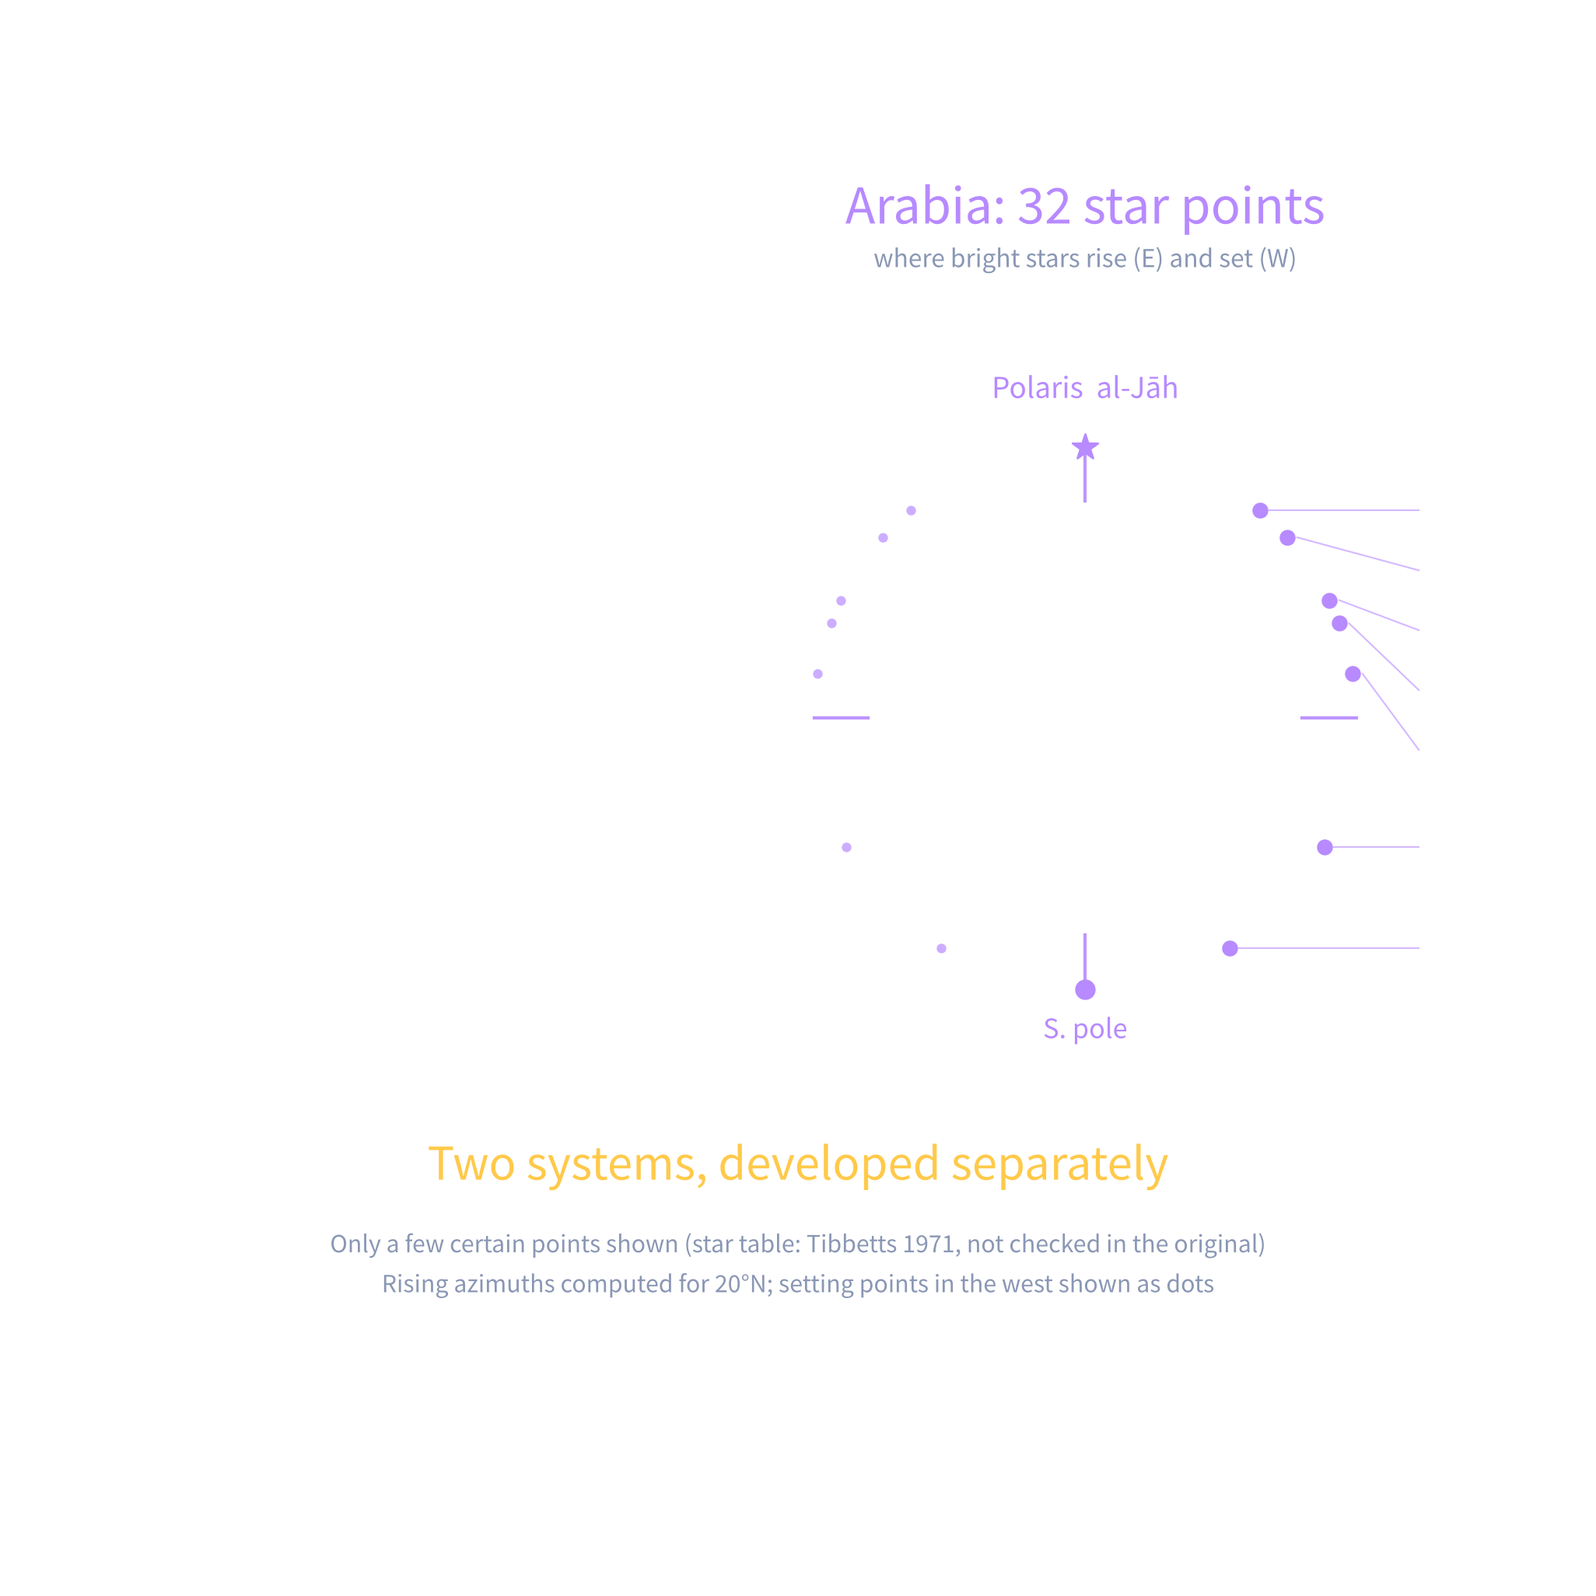
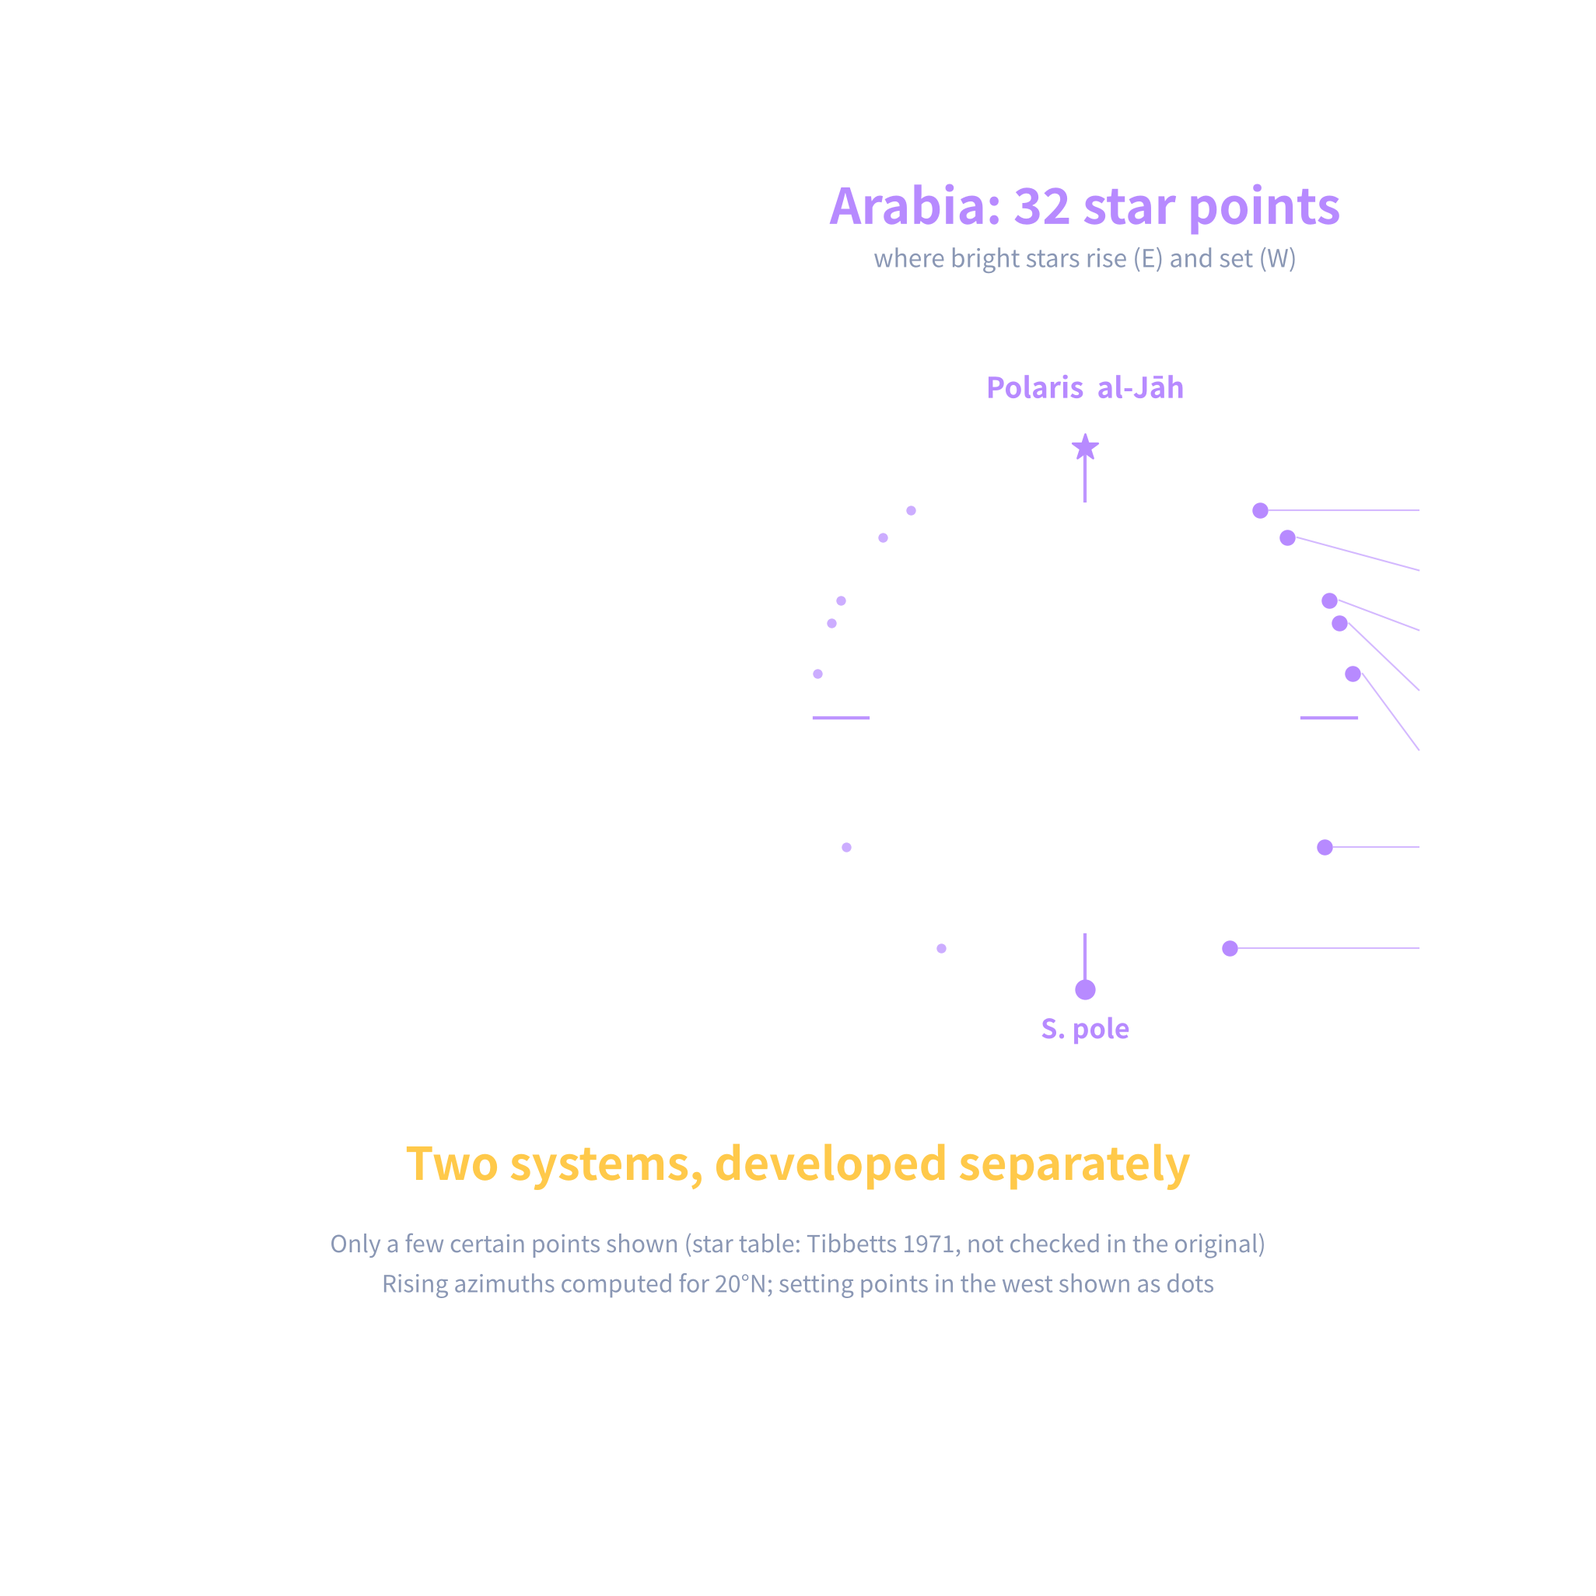
EN30（A-32 阿拉伯月站）英文稿 v0：每頁文字表＋SRT、英文概念圖（C-A32-04 標題縮短）；字型載入補 Noto CJK 粗體（英文圖標題才是粗體）；英文節目表 EN29／EN30 英文稿改 v0、填英文鉤子；譯名表新增 10 詞；進度板重算
Claude-Session: https://claude.ai/code/session_019bt7VgQe2Hwk1Wn3y6GyMN

diff --git a/02_製作流程SOP/make_x06_diagrams.py b/02_製作流程SOP/make_x06_diagrams.py
@@ -75,7 +75,7 @@ TXT = {
     "en": {
         "c01_title": "Before the compass came aboard", "c01_sub": "timeline not to scale",
         "now": "today",
-        "sahul_t": "50,000 years ago", "sahul1": "Crossing to Sahul", "sahul2": "(Australia + New Guinea)",
+        "sahul_t": "50,000 yrs ago", "sahul1": "Crossing to Sahul", "sahul2": "(Australia + New Guinea)",
         "sahul3": "Most islands on the way", "sahul4": "could see the next one", "sahul_q": "Stars used? No evidence",
         "ody_t": "c. 2,700 years ago", "ody1": "The Odyssey", "ody2": "keep the Bear on your left",
         "pz_t": "AD 1119", "pz1": "Pingzhou Ketan", "q1": "By night, the stars;", "q2": "by day, the sun;",

diff --git a/02_製作流程SOP/make_a32_diagrams.py b/02_製作流程SOP/make_a32_diagrams.py
@@ -92,7 +92,7 @@ TXT = {
         "c03_r1": "Crescent hilāl: what day it is", "c03_r2": "after sunset, low in the west,",
         "c03_r3": "the first thin crescent starts the month",
         "c03_w": "W", "c03_sun": "just after sunset",
-        "c04_title": "Lunar stations on today's star maps",
+        "c04_title": "Lunar stations on star maps",
         "c04_sub": "18 of the 28 stations still name stars on the IAU's official list",
         "c04_h": ["#", "Station (meaning)", "IAU star name"],
         "c04_foot1": "* name later moved to a nearby star: Subra, Iklil, Albaldah, Alrescha",

diff --git a/02_製作流程SOP/c_series_base.py b/02_製作流程SOP/c_series_base.py
@@ -29,6 +29,9 @@ def font():
               "/usr/share/fonts/truetype/dejavu/DejaVuSans.ttf"]:
         if os.path.exists(f):
             fontManager.addfont(f); fams.append(FontProperties(fname=f).get_name())
+    bold = "/usr/share/fonts/opentype/noto/NotoSansCJK-Bold.ttc"   # 同一字族的粗體；沒載入時 weight="bold" 會退回 Regular
+    if os.path.exists(bold):
+        fontManager.addfont(bold)
     fams.append("DejaVu Sans")
     return FontProperties(family=fams)
 FP = font()

diff --git a/04_腳本庫/_英文版/EN30-A-32-LunarStations-v0.md b/04_腳本庫/_英文版/EN30-A-32-LunarStations-v0.md
@@ -1,0 +1,119 @@
+# EN30 ｜ Arabic Lunar Stations: Where the Moon Stays Each Night ・ v0 (awaiting Gemini review)
+
+| Item | Content |
+|---|---|
+| Source | Chinese A-32 v1 (`A-32-阿拉伯月站月亮每晚的下榻處-逐字稿-v1.md`, fact-checked + external review 11/13). Nothing here is new; see "Cuts and changes" for what was dropped. |
+| Publish | **2027-06-02 (Wed) 21:00 Taiwan time**: EN30 in `06_發布月曆/節目表_萬國星空_英文版.csv` (Chinese A-32 airs 5/28) |
+| Length | **89 s** (including the 3 s follow page), 14 beats, ~178 words on screen (no voice-over; text over light music) |
+| Story | One story only: **the Moon’s 28 inns and their names.** The Moon moves about 13° a night; each night’s stop is a manzil. The signs read like desert life — a great scorpion, a flock of ostriches, an empty place where the Moon sleeps outdoors — and more than half still name stars today (Aldebaran, Shaula, Zubenelgenubi); the Heart is a heart in China too. Close: on Sunday 6 June the first thin crescent opens the Islamic New Year on Saudi Arabia’s calendar |
+| Canva | Copy of the Chinese A-32 design, named `EN30 A-32 阿拉伯月站` (card 07). Page numbers below are the Chinese design’s numbers (= Chinese 製作表 page + 1; page 1 = cover, 51 = last 製作表 page, 52 = next-episode card, 53 = follow page). If the Chinese design ends differently, put E13 and E14 on its next-episode and follow pages. Card C-A32-04: English version in `05_素材/A-32_阿拉伯月站/_概念圖/en/` (same file name). |
+| Opening line | *One sky. The Arabs saw — inns where the Moon stays each night.* (= the Chinese 統一開頭) |
+| Reading speed | ≤ 2.5 words/sec on every page (max 2.33, E06/E09/E10; = words in Text ÷ seconds that text is on screen, headline not counted; cover excluded as in EN01) |
+
+## Beats (text on screen)
+
+`Pos`: **cover** = cover text block; **top** = full-width box at the top (EN-A); **bottom** = lower-third box (EN-B); **bottom-left** = narrow box (X 110, W 520–600) on the left; **endcard** = replace the existing end-card text. Positions were chosen from `A-32_逐頁標籤座標.csv` (that file’s 頁 = Canva page − 1).
+
+| # | Sec | On pages | Pos | Headline (≤ 6 words) | Text | w/s |
+|---|---|---|---|---|---|---|
+| E01 | 3 | 1 | cover | World Sky Cultures | One sky. The Arabs saw — inns where the Moon stays each night. | — |
+| E02 | 8 | 2, 3 | bottom-left | 28 inns for the Moon | Each night, the Moon shifts about 13° east. In 27 or 28 nights, it circles the sky. | 2.1 |
+| E03 | 5 | 4 | bottom-left | | In Arabic, each night’s stop is a manzil: a lodging. *(narrow left box: the Saʿd al-Suʿūd label sits bottom-right)* | 2.0 |
+| E04 | 9 | 15, 16 | top | Signs from desert life | Around Scorpius: a great scorpion, with claws, a heart and a raised tail. | 1.4 |
+| E05 | 8 | 17 | top | | Then a flock of ostriches. Then al-Baldah, ‘the empty place’: no bright stars, so the Moon sleeps outdoors. | 2.3 |
+| E06 | 6 | 20 | bottom | Still on our star maps | The inn signs reached Europe. Aldebaran is al-Dabarān, ‘the follower’: it follows the Pleiades. | 2.3 |
+| E07 | 3 | 21 | bottom | | Shaula: ‘the raised tail’. | 1.3 |
+| E08 | 8 | 22, 23 | bottom-left | | The scorpion’s claws are now Libra: Zubenelgenubi and Zubeneschamali, ‘southern claw’ and ‘northern claw’. *(narrow left box: the Zubenelgenubi label sits right of centre at Y ≈ 1250–1300)* | 1.8 |
+| E09 | 6 | 25 | bottom-left | | More than half of the 28 stations live on in official IAU star names. | 2.3 |
+| E10 | 6 | 27 | bottom | Same heart in China | Antares: in China, a star of Xin, ‘the Heart’. In Arabic, al-Qalb, ‘the heart’. | 2.3 |
+| E11 | 8 | 38 | bottom | The crescent sets the date | Islamic months traditionally start at the first thin crescent. Saudi Arabia’s calendar: New Year on Sunday 6 June. | 2.3 |
+| E12 | 7 | 39 | bottom | 6 June, after sunset | Look low in the west-northwest: a thin crescent at the feet of Gemini. | 1.9 |
+| E13 | 4 | 52 | endcard | Next Wednesday | Al-Ṣūfī’s Book of Fixed Stars, over 1,000 years old. | 2.3 |
+| E14 | 3 | 53 | endcard | | Follow for a new sky every week. | 2.3 |
+
+The card on page 24 (C-A32-04, English) carries its own title, “Lunar stations on star maps”, and the subtitle “18 of the 28 stations still name stars on the IAU’s official list”; no caption on that page.
+
+## Page sequence (what the editor sets in Canva)
+
+`Canva page` = the original page number (Chinese design); `Now` = filled in by the Canva pass after the unused pages are moved to the back. Transitions are Match & Move unless marked. Labels: transliterations (al-Zubānā, al-Qalb, al-Shawlah, al-Naʿāʾim, al-Baldah, Aldebaran, Shaula, Zubenelgenubi, Zubeneschamali, al-Hanʿah …) stay; each Chinese gloss is replaced by the English in the Note column (wording as card C-A32-04).
+
+| Canva page | Now | Chinese page name | Sec to next | Note |
+|---|---|---|---|---|
+| 1 | | 開場字卡 | 3 | Cover: text block replaced with English; second line = the new hook (*28 inns for the Moon — and over half still name stars today.*); EN · EP30 tag |
+| 2 | | 鏡頭01開始 | 5 | E02; the ecliptic band and the Moon jumping one night at a time |
+| 3 | | 鏡頭01結束＝鏡頭02開始 | 3 | E02; station-sign labels (if shown): Chinese gloss → English as page 4 |
+| 4 | | 鏡頭02結束＝鏡頭03開始 | 5 | E03; labels 帳篷的吉星 → of the tents; 吉中之吉 → luckiest of the lucky; 水桶的前口 → the bucket’s front spout; then **hard cut** to 15 (pages 5–14: diagram C-A32-01 “13° a night”, the Qurʾān 10:5 diagram, the stations-vs-crescent diagram, removed) |
+| 15 | | 鏡頭06開始 | 5 | **hard cut** (as in the Chinese); E04; labels 螯 → the claws; 心臟 → the heart |
+| 16 | | 鏡頭06-中1 | 4 | E04; labels 心臟 → the heart; 翹起的尾巴 → the raised tail |
+| 17 | | 鏡頭06結束 | 8 | E05; labels 鴕鳥群 → the ostriches; 空地 → the empty place; then **hard cut** to 20 (pages 18–19, the four lucky stars and this weekend’s Moon, removed) |
+| 20 | | 鏡頭08開始 | 6 | **hard cut** (as in the Chinese); E06; labels al-Dabarān・跟在後面的 → al-Dabarān · the follower; 昴宿 → the Pleiades (al-Thurayyā stays) |
+| 21 | | 鏡頭08b開始 | 3 | **hard cut**; E07; label al-Shawlah・翹起的尾巴 → al-Shawlah · the raised tail |
+| 22 | | 鏡頭09開始 | 3 | E08 |
+| 23 | | 鏡頭09結束 | 5 | E08; labels 南邊的螯 → southern claw; 北邊的螯 → northern claw |
+| 24 | | 鏡頭09-概念圖 | 5 | card C-A32-04, English (`_概念圖/en/C-A32-04_星圖上的月站_圖卡.png`); no caption |
+| 25 | | 鏡頭09-概念圖收 | 6 | card fades; E09; labels as 23; then **hard cut** to 27 (page 26, the Pegasus square = Shi and Bi, removed) |
+| 27 | | 鏡頭10b開始 | 6 | **hard cut** (as in the Chinese); E10; labels 心宿二 → Antares (Xin); al-Qalb・心臟 → al-Qalb · the heart; then **hard cut** to 38 (pages 28–37: the same-stars diagram C-A32-05, the butcher and the ox, tonight at 8 pm with Jupiter and Mars and card C-A32-06, removed) |
+| 38 | | 鏡頭13開始 | 8 | **hard cut** (as in the Chinese); E11; labels 6/6 19:10 眉月 → 6 June: crescent; 低彎 al-Hanʿah → al-Hanʿah · the downward bend; 雙子 μ → μ Gem; **remove** 高 14°・西北偏西 292° and 19:30 約 10°｜天還有餘暉，先找月亮 (Taipei numbers) |
+| 39 | | 鏡頭13結束 | 7 | E12; labels as 38; then straight to 52 (pages 40–51: the two-ring disc, card C-A32-07 and the Chinese next-episode text, removed) |
+| 52 | | 端卡（下集見） | 4 | E13 |
+| 53 | | 追蹤頁 | 3 | E14 |
+
+Total 89 s (E14 included).
+
+## Glossary (every name used)
+
+| Chinese script | English used | Notes |
+|---|---|---|
+| 月站（manāzil al-qamar） | lunar stations; “inns” | as EN04 “station” |
+| manzil（下榻處） | a manzil: a lodging | |
+| 大蠍子：螯／心臟／翹起的尾巴 | a great scorpion: claws, a heart, a raised tail | al-Zubānā / al-Qalb / al-Shawlah |
+| 鴕鳥群（al-Naʿāʾim） | a flock of ostriches | label “the ostriches” |
+| al-Baldah（空地） | al-Baldah, ‘the empty place’ | card C-A32-04 wording; EN04’s ring label was “Open land” |
+| 畢宿五 Aldebaran／al-Dabarān（跟在後面的） | Aldebaran is al-Dabarān, ‘the follower’ | |
+| 昴宿（al-Thurayyā） | the Pleiades | |
+| Shaula（翹起的尾巴） | Shaula: ‘the raised tail’ | |
+| Zubenelgenubi／Zubeneschamali（南邊的螯／北邊的螯） | ‘southern claw’ / ‘northern claw’ | |
+| 國際天文聯合會的正式星名表 | official IAU star names | |
+| 心宿二／心宿 | Antares; Xin, ‘the Heart’ | pinyin + meaning on first mention |
+| al-Qalb（心臟） | al-Qalb, ‘the heart’ | |
+| 眉月（hilāl） | the first thin crescent | hilāl not on screen |
+| 沙烏地官方曆的伊斯蘭新年 | New Year on Saudi Arabia’s calendar | Umm al-Qura |
+| 低彎 al-Hanʿah | al-Hanʿah · the downward bend | label only; card C-A32-04 wording |
+| 雙子座的腳邊 | the feet of Gemini | |
+| 蘇菲之書 | Al-Ṣūfī’s Book of Fixed Stars | EN31 title |
+
+## YouTube
+
+- **Title**: Arabic lunar stations: where the Moon stays each night
+- **Description**:
+  The Moon moves about 13° east every night, and in Arabic each night’s stop is a manzil, a lodging — 28 inns around the sky. Their signs read like desert life: a great scorpion with claws, a heart and a raised tail; a flock of ostriches; an empty place where the Moon sleeps outdoors. More than half still live on in official star names: Aldebaran, Shaula, Zubenelgenubi.
+  World Sky Cultures: the same sky, seen by different peoples. From the NTNU Astronomy Club, Taiwan. New episode every Wednesday.
+  Sources: Stellarium sky cultures (arabic_lunar_stations, arabic_indigenous, arabic_al-sufi; Khalid al-Ajaji); IAU WGSN star names; Kunitzsch & Smart, A Dictionary of Modern Star Names (via Wikipedia); Umm al-Qura calendar.
+
+## Caption (Instagram / Facebook / Threads)
+
+28 inns for the Moon — and over half still name stars today. 🌙
+Each night the Moon shifts about 13° east. In Arabic, each night’s stop is a manzil: a lodging.
+The signs read like desert life: a great scorpion with claws, a heart and a raised tail; a flock of ostriches; al-Baldah, “the empty place”, where the Moon sleeps outdoors.
+They reached Europe: Aldebaran is al-Dabarān, “the follower” (it follows the Pleiades); Shaula is “the raised tail”; Zubenelgenubi and Zubeneschamali are the scorpion’s southern and northern claws. And Antares is a heart in China and in Arabia alike.
+Sunday 6 June, just after sunset: look low in the west-northwest for the first thin crescent — New Year on Saudi Arabia’s Islamic calendar.
+Next Wednesday: Al-Ṣūfī’s Book of Fixed Stars, over 1,000 years old.
+#WorldSkyCultures #astronomy #Moon #lunarmansions #Arabic #starnames #skylore
+(First comment: sources — Stellarium arabic_lunar_stations / arabic_indigenous / arabic_al-sufi; IAU WGSN; Kunitzsch & Smart; Umm al-Qura.)
+
+## Cuts and changes (for the reviewer)
+
+Dropped from the Chinese version (all still in the Chinese episode): the bridge from last Friday (Ibn Mājid) and the earlier episodes (Mid-Autumn, the Arabian desert calendar); the fist-and-a-bit scale and diagram C-A32-01; Qurʾān 10:5 and Ma Jian’s translation “列宿” (diagram C-A32-02); the stations-vs-crescent diagram (C-A32-03; the crescent idea is kept in E11); the scorpion’s crown/diadem; the four lucky stars and this weekend’s dawn Moon moving from “of the tents” to “the bucket’s front spout”; the Pegasus square = Shi and Bi = the bucket’s two spouts; the same-stars diagram C-A32-05; Niu (the ox) vs the Butcher and his sheep; tonight at 8 pm (Jupiter and Mars in the Lion’s eye and forehead, Spica “the raised one”, card C-A32-06); Taipei times and altitudes for the crescent; the closing two-ring disc and card C-A32-07; the next-Friday Chinese teaser (replaced by next Wednesday’s English episode).
+
+Wording to check:
+1. E02 “about 13° east”, “In 27 or 28 nights” = 03 鏡「每晚往東挪大約十三度……二十七八個晚上，就繞天一圈」.
+2. E03 “a manzil: a lodging” = 「manzil——下榻處」.
+3. E04/E05 = 06 鏡; “Around Scorpius / Then a flock of ostriches” keeps 「天蠍那一帶」「今天的人馬座那一帶」 (E05 drops the word Sagittarius; the label marks the place). “the Moon sleeps outdoors” = 「月亮那一晚，等於睡在野外」. “the empty place” follows the card; EN04 used “Open land” on a ring label — pick one in review.
+4. E06 “The inn signs reached Europe” = 08 鏡「這些旅店的招牌，後來傳到歐洲」.
+5. E08 “are now Libra” = 09 鏡「就是今天天秤座這兩顆」.
+6. E09 “More than half of the 28 stations live on in official IAU star names” = 「二十八間裡，超過一半的名字，今天還寫在國際天文聯合會的正式星名表上」 (the card: 18 of 28).
+7. E10 “Antares: in China, a star of Xin, ‘the Heart’” = 10b 鏡「天蠍的紅心，中國叫心宿二」 (心宿二 = the second star of the Heart mansion; “a star of Xin” avoids claiming it is the whole mansion).
+8. E11 “traditionally” keeps 05 鏡「傳統上」; “Saudi Arabia’s calendar: New Year on Sunday 6 June” = 13 鏡「六月六號星期天，是沙烏地官方曆的伊斯蘭新年」 (not every country’s date).
+9. E12 is the Northern-Hemisphere version of 13 鏡 (Taipei: 19:00–19:30, 14° up at 19:10, below 10° around 19:33). The Chinese computes Taipei only; “low in the west-northwest, just after sunset” is the general direction, and the Taipei numbers are removed from the labels. Reviewer: please confirm the wording does not promise a sighting.
+10. The cover’s second line is the new English hook (also written into the schedule), not a translation of the Chinese cover.
+11. Page sequence is the authority for timing (total 89 s). The Sec column in Beats is not additive.

diff --git a/06_發布月曆/進度板.md b/06_發布月曆/進度板.md
@@ -1,4 +1,4 @@
-# 進度板（2026-11-23 由 `02_製作流程SOP/進度.py` 從檔案算出）
+# 進度板（2026-11-24 由 `02_製作流程SOP/進度.py` 從檔案算出）
 
 > 步驟編號見 `02_製作流程SOP/開工指令/00_循環.md`；每張卡結束、每次交件 push 之後重跑就會更新。改這個檔沒有用。
 
@@ -103,8 +103,8 @@
 | EN37 | A-02 | 2027/05/09 | — | — | — | Ⓐ | 卡 05｜Opus medium｜`中文集號：A-30、A-02`（EN26＋EN37 一組） |
 | EN27 | A-31 | 2027/05/12 | — | — | — | Ⓐ | 卡 05｜Opus medium｜`中文集號：A-31、X-05`（EN27＋EN28 一組） |
 | EN28 | X-05 | 2027/05/19 | — | — | — | Ⓐ | 卡 05｜Opus medium｜`中文集號：A-31、X-05`（EN27＋EN28 一組） |
-| EN29 | X-06 | 2027/05/26 | — | — | — | Ⓐ | 卡 05｜Opus medium｜`中文集號：X-06、A-32`（EN29＋EN30 一組） |
-| EN30 | A-32 | 2027/06/02 | — | — | — | Ⓐ | 卡 05｜Opus medium｜`中文集號：X-06、A-32`（EN29＋EN30 一組） |
+| EN29 | X-06 | 2027/05/26 | v0 | — | — | 進行中 | Ⓑ 對 Antigravity 說「做 EN29 英文審稿」（`04_英文審稿.md`，交件自動 push）；ⒹⒺ 你：中文 ⑨ 後複製 → 「EN29 X-06 星星導航總集」；卡 07｜Sonnet medium｜`英文集號：EN29　Canva 設計名：EN29 X-06 星星導航總集` |
+| EN30 | A-32 | 2027/06/02 | v0 | — | — | 進行中 | Ⓑ 對 Antigravity 說「做 EN30 英文審稿」（`04_英文審稿.md`，交件自動 push）；ⒹⒺ 你：中文 ⑨ 後複製 → 「EN30 A-32 阿拉伯月站」；卡 07｜Sonnet medium｜`英文集號：EN30　Canva 設計名：EN30 A-32 阿拉伯月站` |
 | EN31 | A-34 | 2027/06/09 | — | — | — | Ⓐ | 卡 05｜Opus medium｜`中文集號：A-34、A-35`（EN31＋EN32 一組） |
 | EN32 | A-35 | 2027/06/16 | — | — | — | Ⓐ | 卡 05｜Opus medium｜`中文集號：A-34、A-35`（EN31＋EN32 一組） |
 | EN33 | A-33 | 2027/06/23 | — | — | — | Ⓐ | 卡 05｜Opus medium｜`中文集號：A-33、A-36`（EN33＋EN34 一組） |
